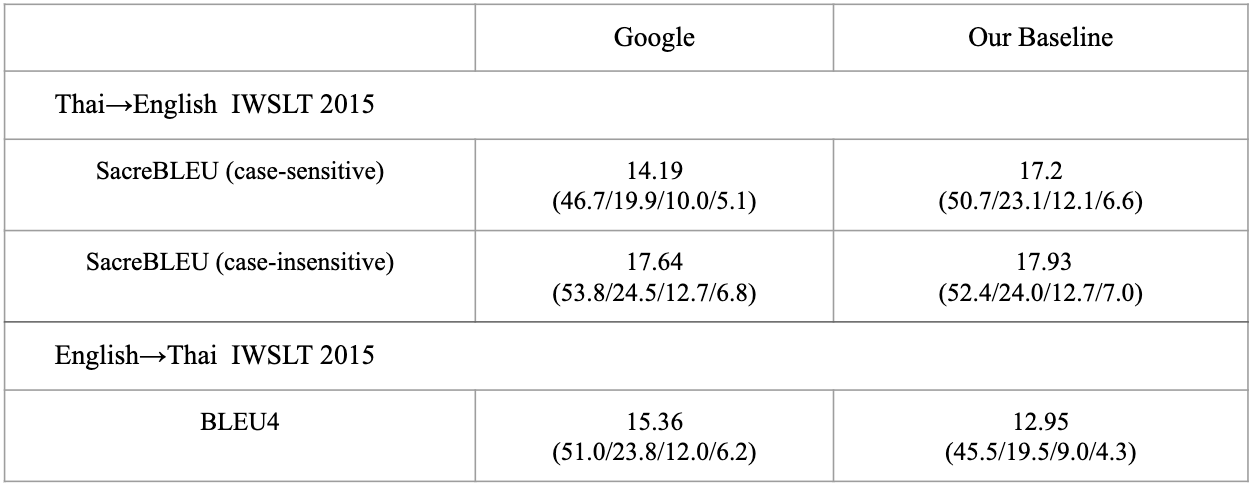
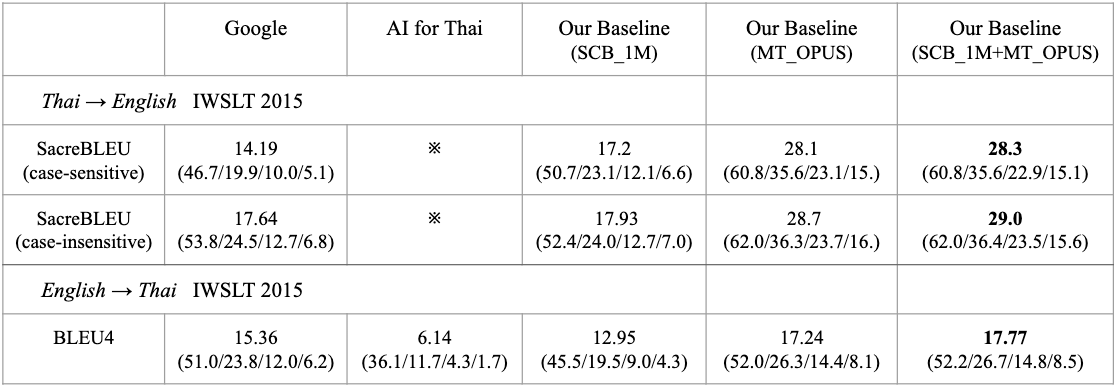
Update content
- Add evaluation results of the Transformer BASE model trained on
 1) mt-opus
 2) SCB 1M and mt-opus

diff --git a/_releases/machine-translation-models.md b/_releases/machine-translation-models.md
@@ -43,13 +43,15 @@ items:
     size: 667M
     href: https://github.com/vistec-AI/model-releases/releases/download/SCB_1M%2BTBASE_v1.0/SCB_1M+TBASE_th-en_spm-spm_32000-joined_v1.0.tar.gz
     sha256: 69bec33d471114ef51a0564a48b3c5c528e19544464361d62509531c5bfad153
+
+
 date: "23 June 2020"
 featured: true
 categories: model demo
 image: "/assets/img/releases/letters.jpg"
 ---
 
-ศูนย์วิจัย AIResearch ซึ่งเกิดจากความร่วมมือระหว่าง VISTEC และ depa ได้ทำการเทรนโมเดลแปลภาษา (Machine Translation) สำหรับการแปลภาษาใน 2 คู่ภาษา ไทย→อังกฤษ และ อังกฤษ→ไทย จากชุดข้อมูลคู่ประโยคในภาษาอังกฤษ-ไทย (`scb-mt-en-th-2020`) ซึ่งมีจำนวนกว่า 1 ล้านคู่ประโยค และได้วัดประสิทธิภาพของโมเดลด้วย BLEU score กับข้อมูลชุดทดสอบจาก The International Conference on Spoken Language Translation (IWSLT) ในปี 2015 ซึ่งเป็น คู่ประโยค อังกฤษ-ไทย ที่ได้จากการถอดคำพูด (Transcription) จาก TED Talk จากผลการทดสอบพบว่า โมเดลแปลภาษาสำหรับ ภาษาไทย→อังกฤษ (`SCB_1M+TBASE-th-en_spm-spm_32000-joined_v1.0`) สามารถแปลภาษาได้มีประสิทธิภาพเทียบเท่าได้กับระบบแปลภาษาจาก Google Translation API (ทดสอบ ณ เดือนพฤษภาคม 2020)
+ศูนย์วิจัย AIResearch ซึ่งเกิดจากความร่วมมือระหว่าง VISTEC และ depa ได้ทำการเทรนโมเดลแปลภาษา (Machine Translation) สำหรับการแปลภาษาใน 2 คู่ภาษา ไทย→อังกฤษ และ อังกฤษ→ไทย จากชุดข้อมูลคู่ประโยคในภาษาอังกฤษ-ไทย (scb-mt-en-th-2020) ซึ่งมีจำนวนกว่า 1 ล้านคู่ประโยค และได้วัดประสิทธิภาพของโมเดลด้วย BLEU score กับข้อมูลชุดทดสอบจาก The International Conference on Spoken Language Translation (IWSLT) ในปี 2015 ซึ่งเป็น คู่ประโยค อังกฤษ-ไทย ที่ได้จากการถอดคำพูด (Transcription) จาก TED Talk จากผลการทดสอบพบว่า โมเดลแปลภาษาสำหรับ ภาษาไทย→อังกฤษ (`SCB_1M-MT_OPUS+TBASE`) และ ภาษาอังกฤษ→ไทย (`SCB_1M-MT_OPUS+TBASE`) สามารถแปลภาษาได้มีประสิทธิภาพเทียบเท่าหรือดีกว่าระบบแปลภาษาจาก Google Translation API (ทดสอบ ณ เดือนพฤษภาคม 2020)
 
 ## Transformer
 
@@ -65,7 +67,9 @@ Transformer [Vaswani et al. 2017] เป็นโมเดลประเภท 
 
 ## Evaluation results
 
-การเปรียบเทียบ BLEU score และ n-gram precision ระหว่าง ผลการแปลของโมเดลที่เทรนจาก ชุดข้อมูลคู่ประโยคภาษาอังกฤษ-ไทย `scb-mt-en-th-2020` (Our baseline) และ ผลการแปลจาก Google Translation API (ทดสอบและวัดผลใน เดือนพฤษภาคม 2020) โดยใช้ SacreBLEU [Post et al. 2018] (case sensitive / case-insentive) สำหรับภาษาอังกฤษเป็น Target language และ BLEU4 [Papineni et al. 2002] สำหรับภาษาไทยเป็น Target language
+การเปรียบเทียบ BLEU score และ n-gram precision ระหว่าง ผลการแปลของโมเดล Transformer Base ที่เทรนจาก ชุดข้อมูลคู่ประโยคจาก `scb-mt-en-th-2020` (SCB_1M), ชุดข้อมูลคู่ประโยคจาก Open Parallel Corpus [Tiedemann et al. 2012] ในส่วนที่เป็นคู่ประโยคภาษาอังกฤษและไทย ([mt-opus](https://github.com/vistec-AI/mt-opus)), ชุดข้อมูลคู่ประโยคที่รวมทั้ง `scb-mt-en-th-2020` และ `mt-opus` (SCB_1M + MT_OPUS), ผลการแปลของโมเดลแปลภาษาเฉพาะการแปลจากอังกฤษ→ไทย จาก AI for Thai (aiforthai.in.th) และ ผลการแปลจาก Google Translation API (ทดสอบและวัดผลใน เดือนพฤษภาคม 2020) 
+
+สำหรับคู่ประโยคทีใช้ทดสอบ เป็นชุดข้อมูลทดสอบจาก IWSLT 2015 ประกอบด้วย 46 Transcript ที่มีการถอดคำและแปลในภาษาอังกฤษและไทย จาก TED Talk  ระหว่างปี 2010 ถึง 2013 (tst2010-2013) รวมเป็น 4,242 ประโยค โดยใช้ SacreBLEU [Post et al. 2018] (case sensitive / case-insentive) สำหรับภาษาอังกฤษเป็น Target language และ BLEU4 [Papineni et al. 2002] สำหรับภาษาไทยเป็น Target language
 
 ![Evaluation Result](/assets/img/releases/machine_translation_models/eval_iwslt2015.png)
 
@@ -104,5 +108,6 @@ and whipped cream from the starbucks at the birchville mall.
 
 - Vaswani, A., Shazeer, N., Parmar, N., Uszkoreit, J., Jones, L., Gomez, A. N., ... & Polosukhin, I. (2017). Attention is all you need. In Advances in neural information processing systems (pp. 5998-6008).
 - Ott, M., Edunov, S., Baevski, A., Fan, A., Gross, S., Ng, N., Grangier, D., & Auli, M. (2019). fairseq: A Fast, Extensible Toolkit for Sequence Modeling. NAACL-HLT.
+- Tiedemann, J. (2012). Parallel Data, Tools and Interfaces in OPUS. LREC.
 - Papineni, K., Roukos, S., Ward, T., & Zhu, W. J. (2002, July). BLEU: a method for automatic evaluation of machine translation. In Proceedings of the 40th annual meeting on association for computational linguistics (pp. 311-318). Association for Computational Linguistics.
 - Post, M. (2018). A Call for Clarity in Reporting BLEU Scores. WMT.
